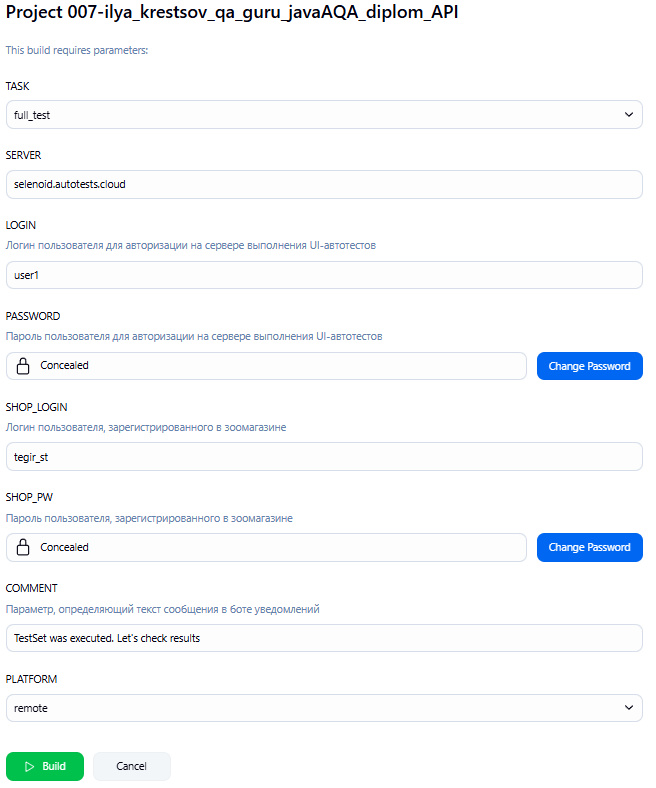
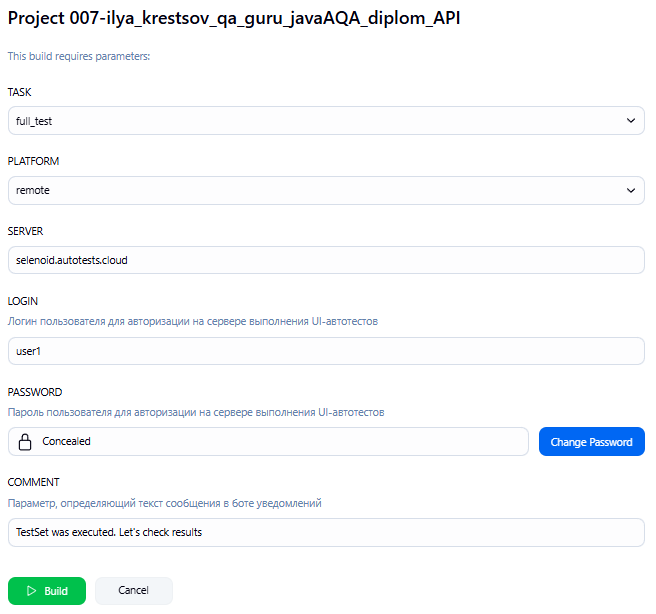
deleted redundant parts of report

diff --git a/src/test/java/apitests/APIBaseTests.java b/src/test/java/apitests/APIBaseTests.java
@@ -1,23 +1,18 @@
 package apitests;
 
-import com.codeborne.selenide.logevents.SelenideLogger;
-import io.qameta.allure.selenide.AllureSelenide;
+import com.codeborne.selenide.Configuration;
+import config.LaunchConfig;
 import io.restassured.RestAssured;
+import org.aeonbits.owner.ConfigFactory;
 import org.junit.jupiter.api.BeforeAll;
-import org.junit.jupiter.api.BeforeEach;
 
 public class APIBaseTests {
 
     @BeforeAll
     static void beforeAll() {
-        RestAssured.baseURI = "https://petstore.swagger.io/v2/pet";
+        LaunchConfig config = ConfigFactory.create(LaunchConfig.class, System.getProperties());
 
-        //Configuration.remote = getServer();
+        Configuration.remote = config.getServerAddress();
+        RestAssured.baseURI = config.getBaseUrl();
     }
-
-    @BeforeEach
-    public void enableAllureListener() {
-        SelenideLogger.addListener("allure", new AllureSelenide());
-    }
-
 }

diff --git a/src/test/java/config/LaunchConfig.java b/src/test/java/config/LaunchConfig.java
@@ -4,25 +4,14 @@ import org.aeonbits.owner.Config;
 
 @Config.Sources({
         "classpath:${platform}.config",
+        "classpath:${platform}.items.config",
         "system:properties"
 })
 public interface LaunchConfig extends Config {
-    @Key("browser.name")
-    String getBrowserName();
+    @Key("url.base")
+    String getBaseUrl();
 
-    @Key("browser.version")
-    String getBrowserVersion();
-
-    @Key("browser.size")
-    String getBrowserSize();
-
-    @Key("server.address")
+    @Key("server")
     String getServerAddress();
-
-    @Key("login")
-    String getShopLogin();
-
-    @Key("pw")
-    String getShopPassword();
 
 }

diff --git a/README.md b/README.md
@@ -58,8 +58,6 @@
 - **SERVER** - Адрес сервера выполнения тестов
 - **LOGIN** - Логин для доступа к серверу выполнения тестов
 - **PASSWORD** - пароль для доступа к серверу выполнения тестов
-- **SHOP_LOGIN** - Логин тестового пользователя
-- **SHOP_PW** - Пароль тестового пользователя
 - **COMMENT** - Параметр, определяющий текст сообщения в боте уведомлений
 
 ### Allure-отчеты
